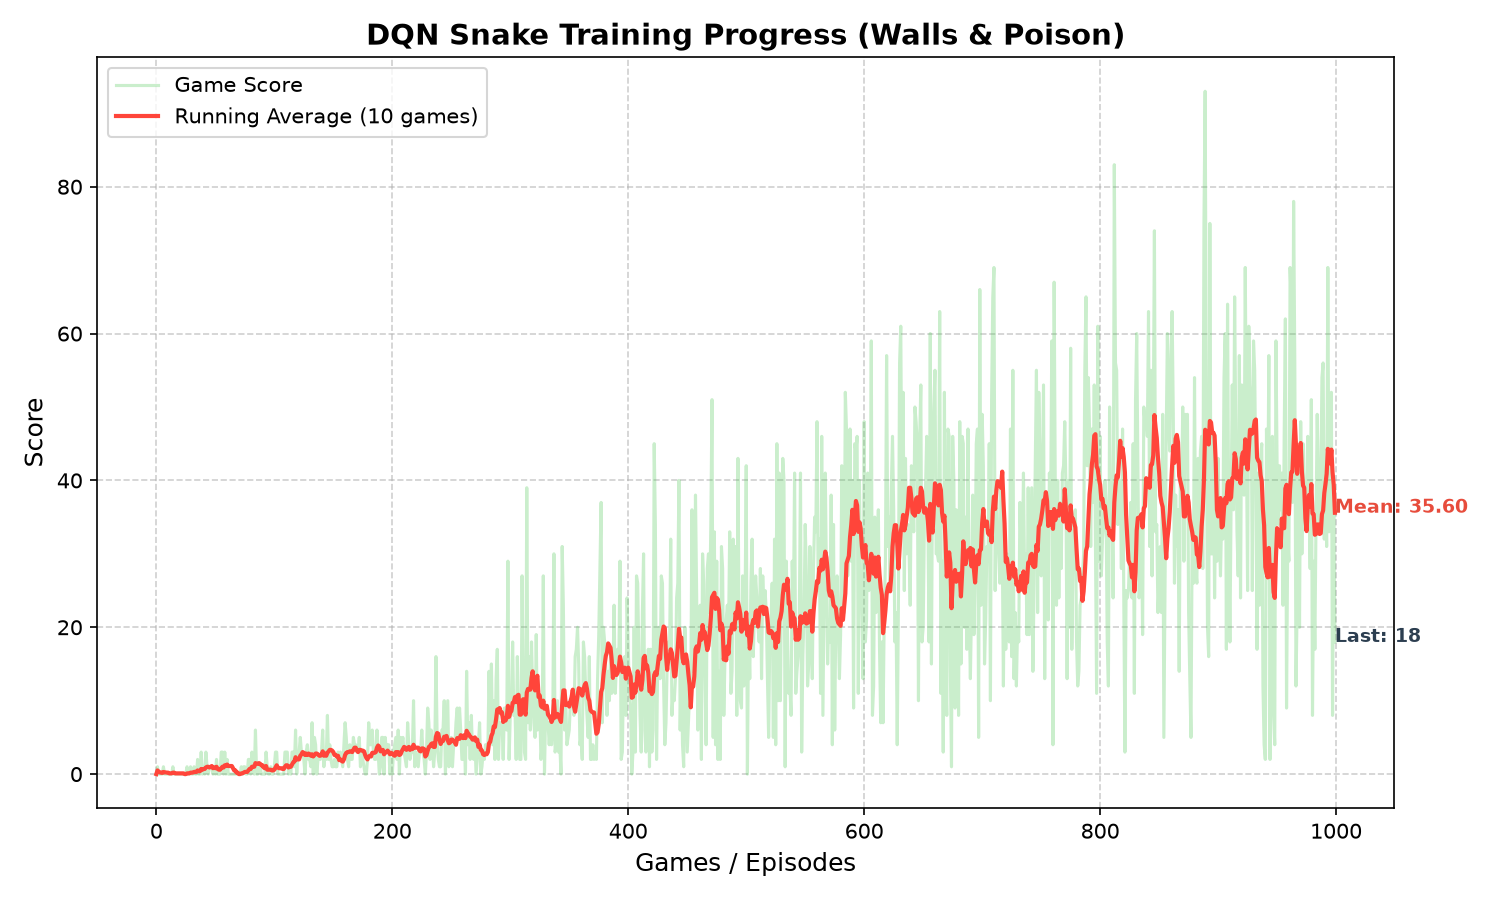
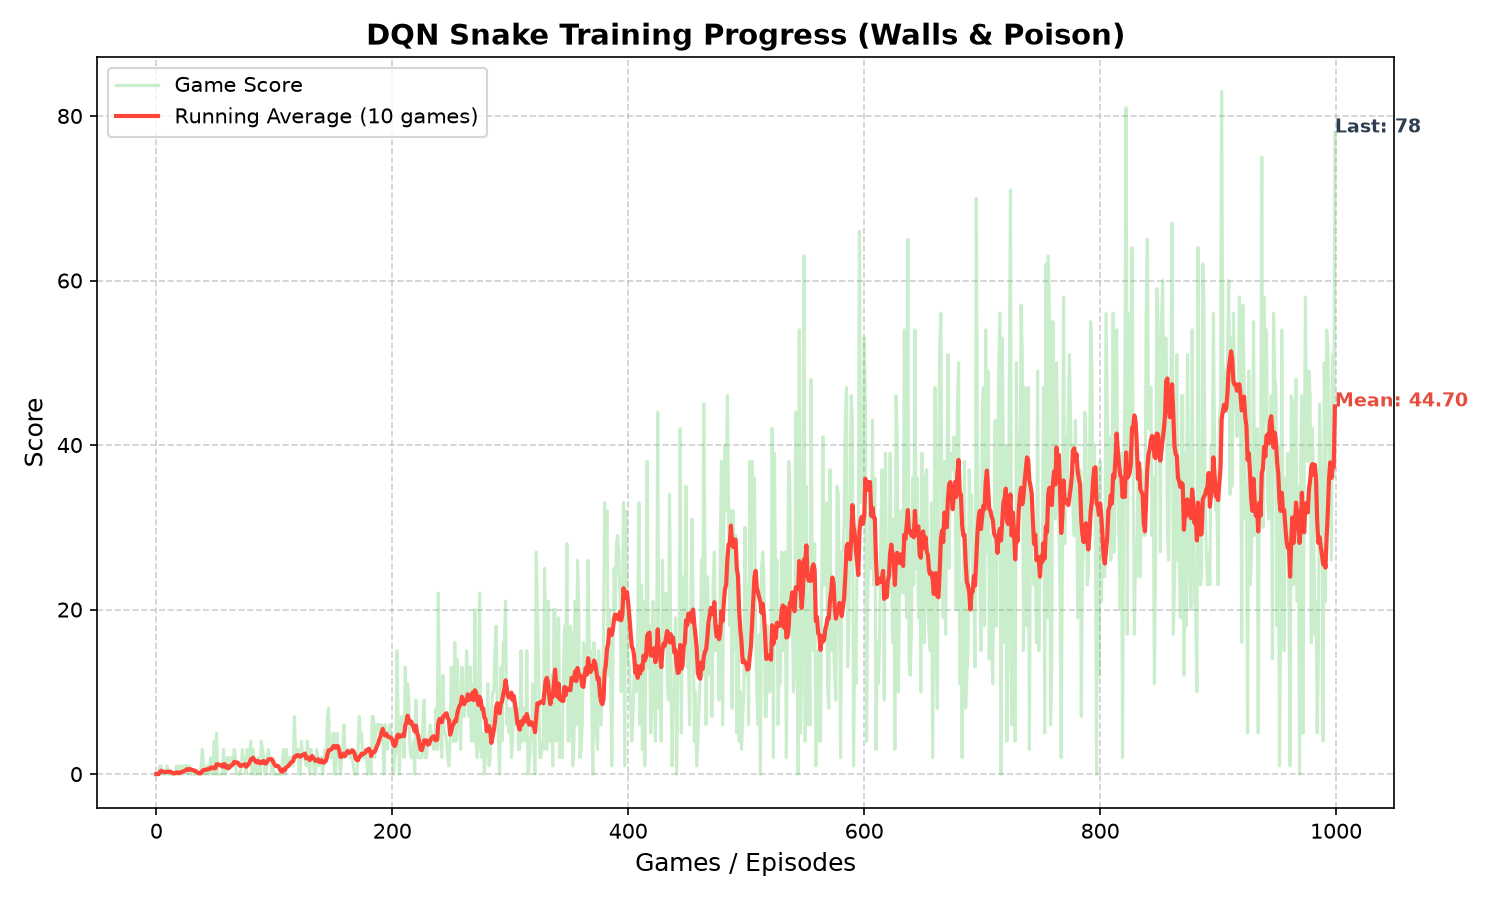
added loss curve

diff --git a/train.py b/train.py
@@ -29,9 +29,33 @@ def plot(scores, mean_scores):
     plt.savefig('training_progress.png', dpi=150)
     plt.close()
 
+def plot_loss(losses, mean_losses):
+    plt.figure(figsize=(10, 6))
+    plt.title('DQN Snake Training Loss Curve', fontsize=14, fontweight='bold')
+    plt.xlabel('Games / Episodes', fontsize=12)
+    plt.ylabel('MSE Loss', fontsize=12)
+    
+    # Plotting losses and moving average
+    plt.plot(losses, color='#3498db', alpha=0.3, label='Episode Loss')
+    plt.plot(mean_losses, color='#e67e22', linewidth=2, label='Running Average (10 games)')
+    
+    # Highlight final values
+    if len(losses) > 0:
+        plt.text(len(losses) - 1, losses[-1], f"Last: {losses[-1]:.2f}", fontsize=9, fontweight='bold', color='#2c3e50')
+    if len(mean_losses) > 0:
+        plt.text(len(mean_losses) - 1, mean_losses[-1], f"Mean: {mean_losses[-1]:.2f}", fontsize=9, fontweight='bold', color='#d35400')
+
+    plt.legend(loc='upper right')
+    plt.grid(True, linestyle='--', alpha=0.6)
+    plt.tight_layout()
+    plt.savefig('loss_curve.png', dpi=150)
+    plt.close()
+
 def train():
     plot_scores = []
     plot_mean_scores = []
+    plot_losses = []
+    plot_mean_losses = []
     total_score = 0
     record = 0
     
@@ -72,7 +96,7 @@ def train():
         # Game finished
         score = info['score']
         agent.n_games += 1
-        agent.train_long_memory()
+        loss = agent.train_long_memory()
         agent.decay_epsilon()
         
         if score > record:
@@ -86,17 +110,25 @@ def train():
         mean_score = np.mean(plot_scores[-10:])
         plot_mean_scores.append(mean_score)
         
+        # Track loss
+        plot_losses.append(loss)
+        mean_loss = np.mean(plot_losses[-10:])
+        plot_mean_losses.append(mean_loss)
+        
         # Print progress every game
         if episode % 10 == 0 or episode == 1:
-            print(f"Game: {episode:3d} | Score: {score:3d} | Record: {record:3d} | Epsilon: {agent.epsilon:.4f} | Running Avg: {mean_score:.2f}")
+            print(f"Game: {episode:3d} | Score: {score:3d} | Record: {record:3d} | Epsilon: {agent.epsilon:.4f} | Loss: {loss:.4f} | Running Avg: {mean_score:.2f}")
             plot(plot_scores, plot_mean_scores)
+            plot_loss(plot_losses, plot_mean_losses)
             
     env.close()
     
     # Save training history data to json
     history = {
         "scores": plot_scores,
-        "mean_scores": plot_mean_scores
+        "mean_scores": plot_mean_scores,
+        "losses": plot_losses,
+        "mean_losses": plot_mean_losses
     }
     with open("training_history.json", "w") as f:
         json.dump(history, f)
@@ -107,6 +139,7 @@ def train():
     print(f"Final running average score: {plot_mean_scores[-1]:.2f}")
     print("Model saved to 'model/model.pth'")
     print("Progress plot saved to 'training_progress.png'")
+    print("Loss curve saved to 'loss_curve.png'")
     print("History saved to 'training_history.json'")
 
 if __name__ == '__main__':

diff --git a/agent.py b/agent.py
@@ -38,11 +38,13 @@ class Agent:
             mini_sample = self.memory
 
         states, actions, rewards, next_states, dones = zip(*mini_sample)
-        self.trainer.train_step(states, actions, rewards, next_states, dones)
+        loss = self.trainer.train_step(states, actions, rewards, next_states, dones)
 
         # Polyak soft update: target_weights = tau * policy_weights + (1 - tau) * target_weights
         for target_param, policy_param in zip(self.target_model.parameters(), self.model.parameters()):
             target_param.data.copy_(self.tau * policy_param.data + (1.0 - self.tau) * target_param.data)
+
+        return loss
 
     def train_short_memory(self, state, action, reward, next_state, done):
         self.trainer.train_step(state, action, reward, next_state, done)

diff --git a/README.md b/README.md
@@ -1,30 +1,45 @@
 # Reinforcement Learning Snake Agent
 
-This project implements a DQN RL agent to play the snake game on a custom 20x20 wrapping grid environment. Poison, food, and walls are generated randomly. The reward function gives -200 for eating itself or hitting a wall, +50 for food, and -20 for poison.
+This project implements a Deep Q-Network (DQN) RL agent to play the snake game on a custom 20x20 wrapping grid environment. Poison, food, and continuous walls are generated randomly. The base reward function gives -200 for eating itself or hitting a wall, +50 for food, and -20 for poison.
 
-To improve policy performance, the implementation includes:
+To improve policy performance and prevent reward hacking, the implementation includes:
 
-1. Potential-Based Reward Shaping: Rewards moving closer to the food at each step using the negative wrapping distance. The shaping reward added to the step is calculated as (gamma * -new_distance) - (-old_distance) with a gamma of 0.97, guiding the agent without altering the optimal policy.
-2. 3-Directional Lidar: Provides vision by projecting raycasts in straight, left, and right directions to measure proximity (1.0 / distance) to walls, body segments, or poison.
-3. BFS Path Check: Performs a breadth-first search from the head on each step to check for topological connectivity, preventing the snake from trapping itself in dead-ends.
-4. Tail-popping Physics: Removes the tail segment before verifying collisions so the snake can safely follow its own body.
+1. **Potential-Based Reward Shaping (PBRS)**: Rewards moving closer to the food at each step using the negative wrapping distance: $F(s, a, s') = \gamma \Phi(s') - \Phi(s)$ where $\Phi(s) = -\text{distance}$ and $\gamma = 0.97$. This guides the agent without altering the optimal policy or introducing positive reward cycles.
+2. **Step Penalty & Starvation Timer**: Applies a `-0.2` step penalty and truncates episodes with a `-200` penalty if the snake takes $> 100 \times \text{body\_length}$ steps without eating food (resetting upon eating food), effectively preventing infinite looping.
+3. **3-Directional Lidar**: Provides vision by projecting raycasts in straight, left, and right directions to measure proximity ($1.0 / \text{distance}$) to walls, body segments, or poison.
+4. **BFS Path Check**: Performs a breadth-first search from the head on each step to check for topological connectivity (verifying reachable space $\ge \text{body\_length}$), preventing the snake from trapping itself in dead-ends.
+5. **Tail-Popping Physics**: Removes the tail segment before verifying collisions so the snake can safely follow its own body.
+6. **Target Network Soft Updates**: Uses Polyak averaging ($\tau = 0.01$) to update the target Q-network, ensuring smooth Q-learning stability.
 
 The stack used is PyTorch and Gymnasium for RL, and Pygame for GUI rendering.
 
-## Neural Network to Predict Q-values
+## Neural Network Architecture
 
-- Input: 12 values representing Lidar readings, BFS check status, heading direction, and relative food direction.
-- Hidden Layers: 256 ReLU units to 256 ReLU units.
-- Output Layer: 3 units representing action values for straight, turn right, and turn left.
+- **Input Layer**: 12 feature values (3 Lidar proximity readings, 1 BFS survival path status, 4 current direction flags, and 4 relative food direction flags).
+- **Hidden Layers**: Two fully connected layers with 256 ReLU units each.
+- **Output Layer**: 3 Q-value predictions corresponding to actions: `[Straight, Turn Right, Turn Left]`.
 
 ## Training Process and Results
 
-The policy trained over 1000 episodes using epsilon-greedy exploration. The performance metrics are:
-- Max score: 93 (count of food eaten before failing)
-- Final running average: 35.6
-- Peak exploitation average: 46.9
+The policy was trained over 1000 episodes using epsilon-greedy exploration ($\epsilon$ decaying from 1.0 to 0.01).
+
+### Performance Metrics:
+- **Max score**: 83 (food items eaten in a single game)
+- **Final running average score (last 10 games)**: 44.70
+- **Peak running average score**: 51.40
 
 ![Training Progress](training_progress.png)
+
+## Loss Function & Training Stability Analysis
+
+The training loss is measured using Mean Squared Error (MSE) between the target Q-values (computed via Bellman equation using target network) and predicted Q-values.
+
+![Training Loss Curve](loss_curve.png)
+
+### Key Insights & Justification:
+- **Convergence and Stability**: The loss starts high (~477.8) during initial exploration as the network encounters large penalty signals (-200). It quickly drops and stabilizes in the **35–60 MSE range** (finishing with a 10-episode mean loss of **51.10** and final loss of **38.95**), indicating smooth policy convergence without loss divergence.
+- **Overestimation Control**: Using soft updates ($\tau = 0.01$) on the target network prevents Q-value overestimation spikes, maintaining steady gradients throughout the 1000 episodes.
+- **Absence of Reward Hacking**: The combination of Potential-Based Reward Shaping, a `-0.2` step penalty, and the starvation timeout ($100 \times \text{body\_length}$) prevents the agent from engaging in loop farming. As seen in evaluation play, the agent directly navigates to food while keeping topological escape routes open.
 
 ## How to Run
 